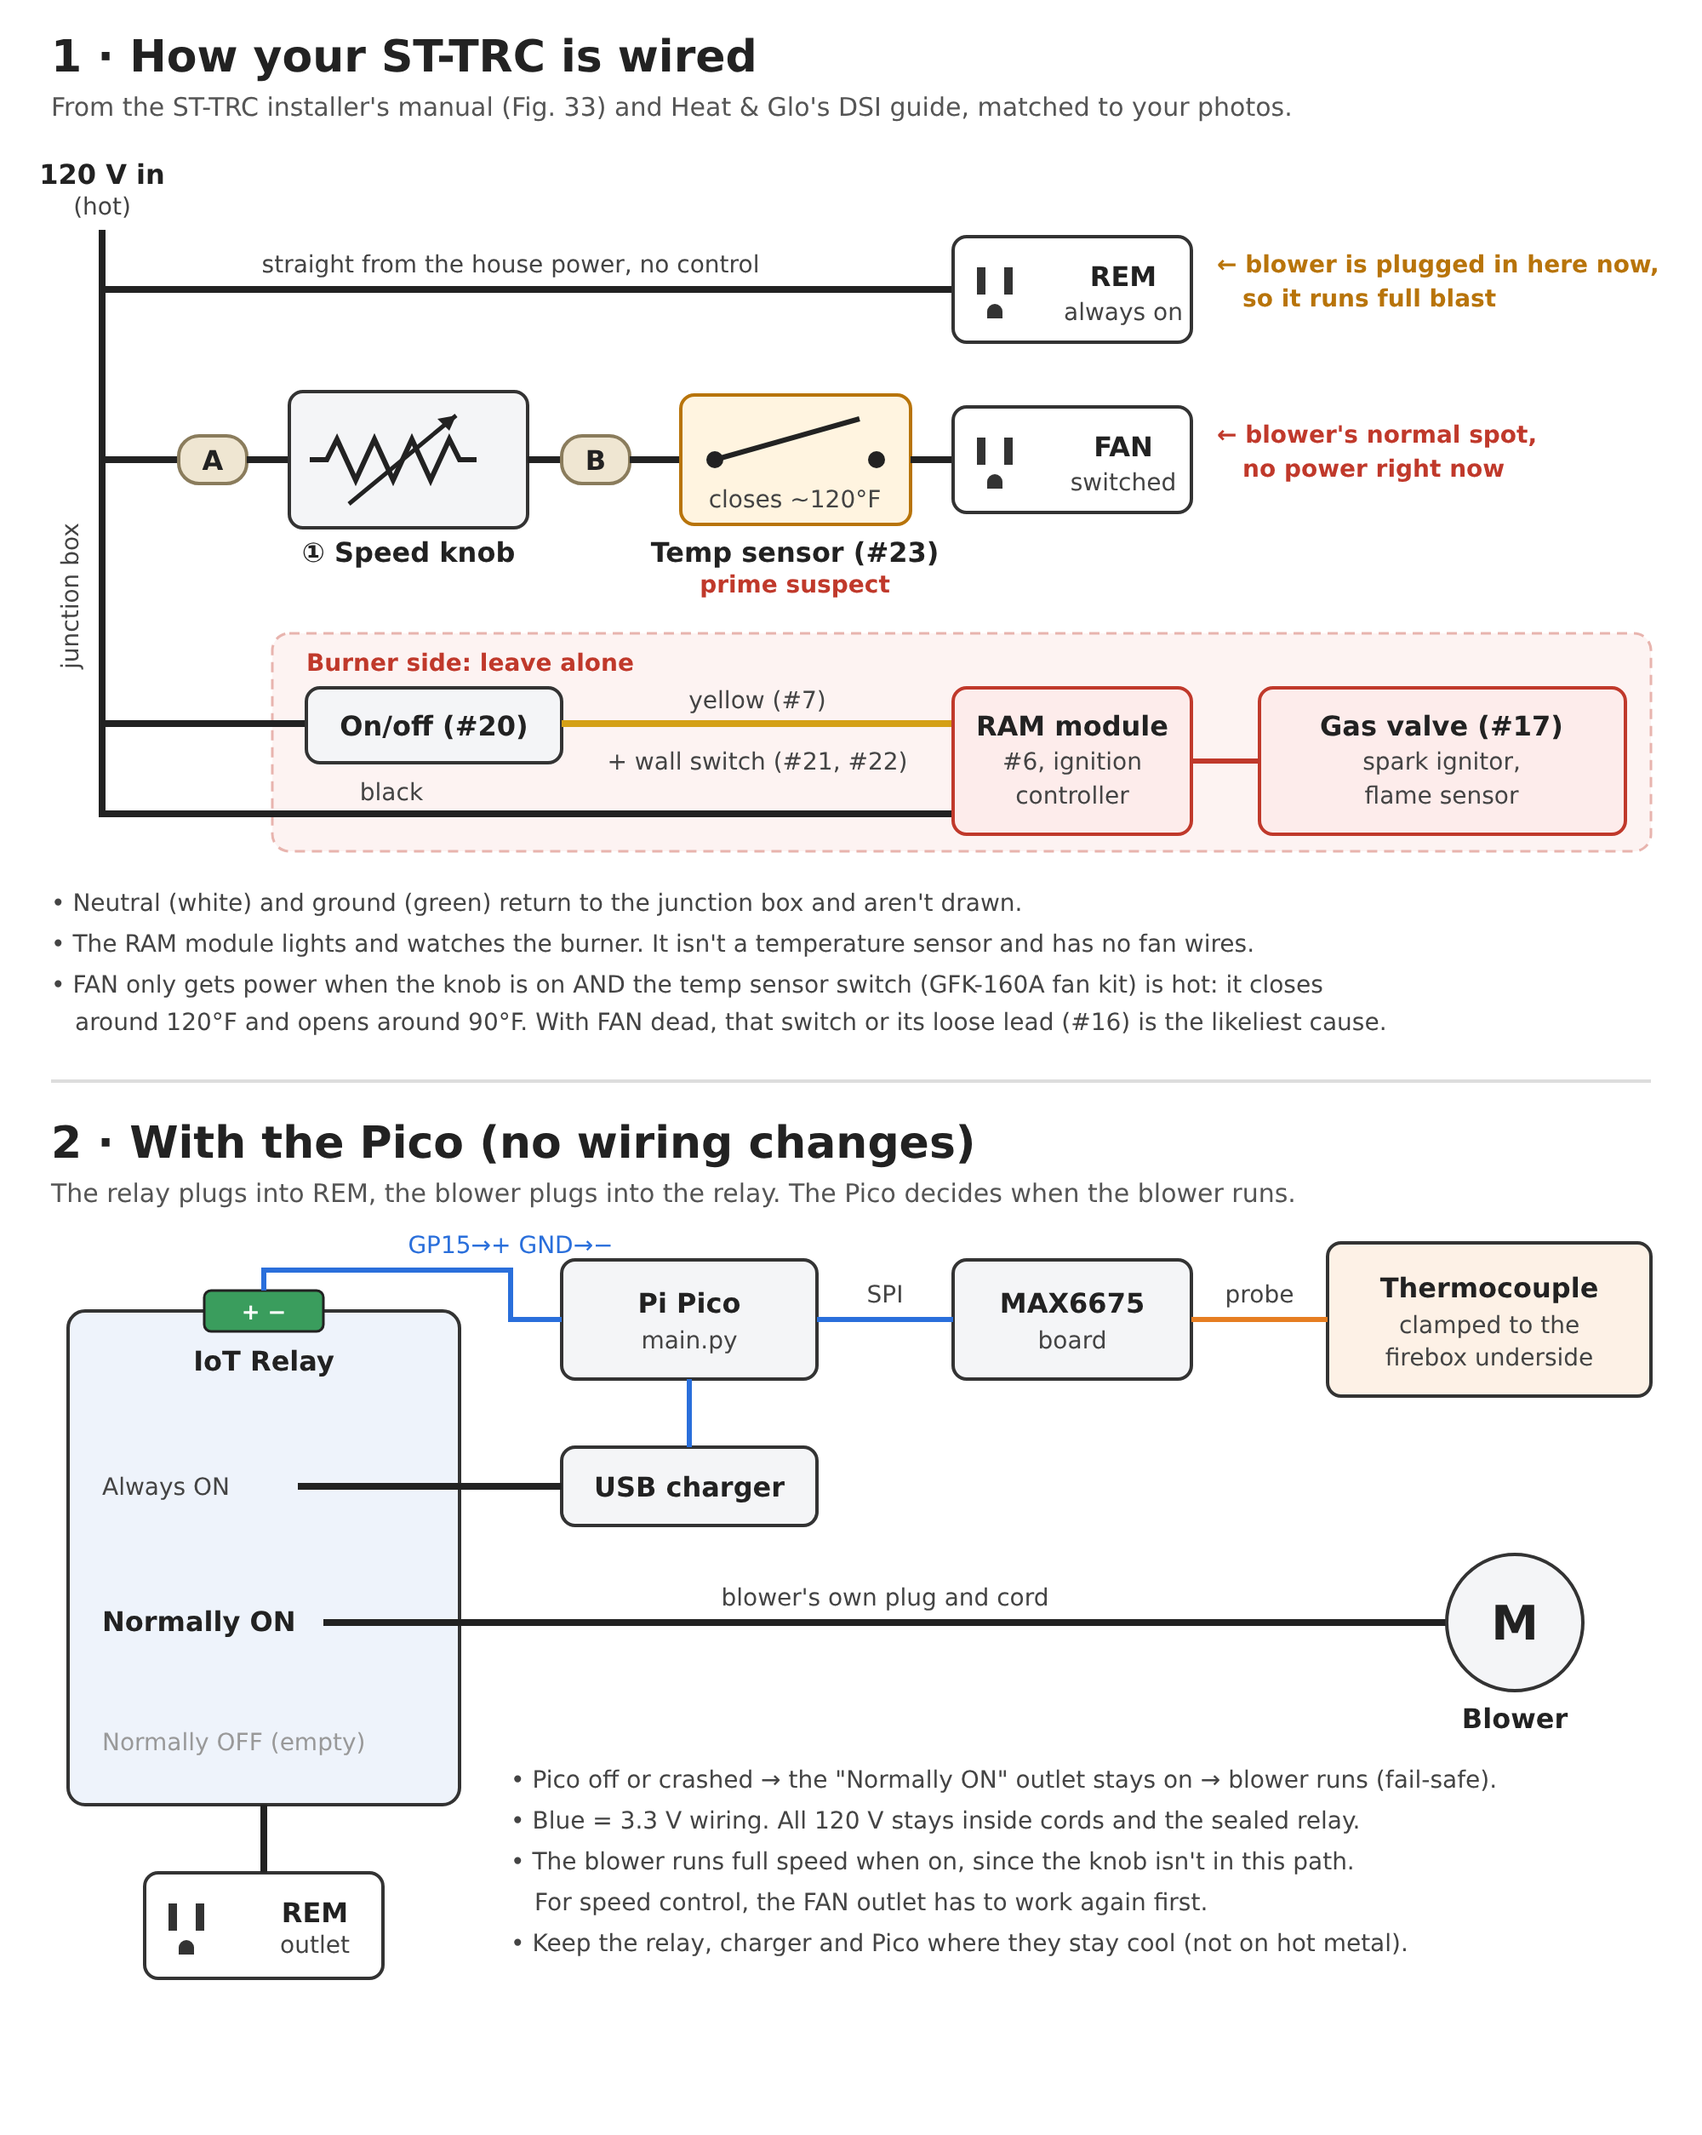
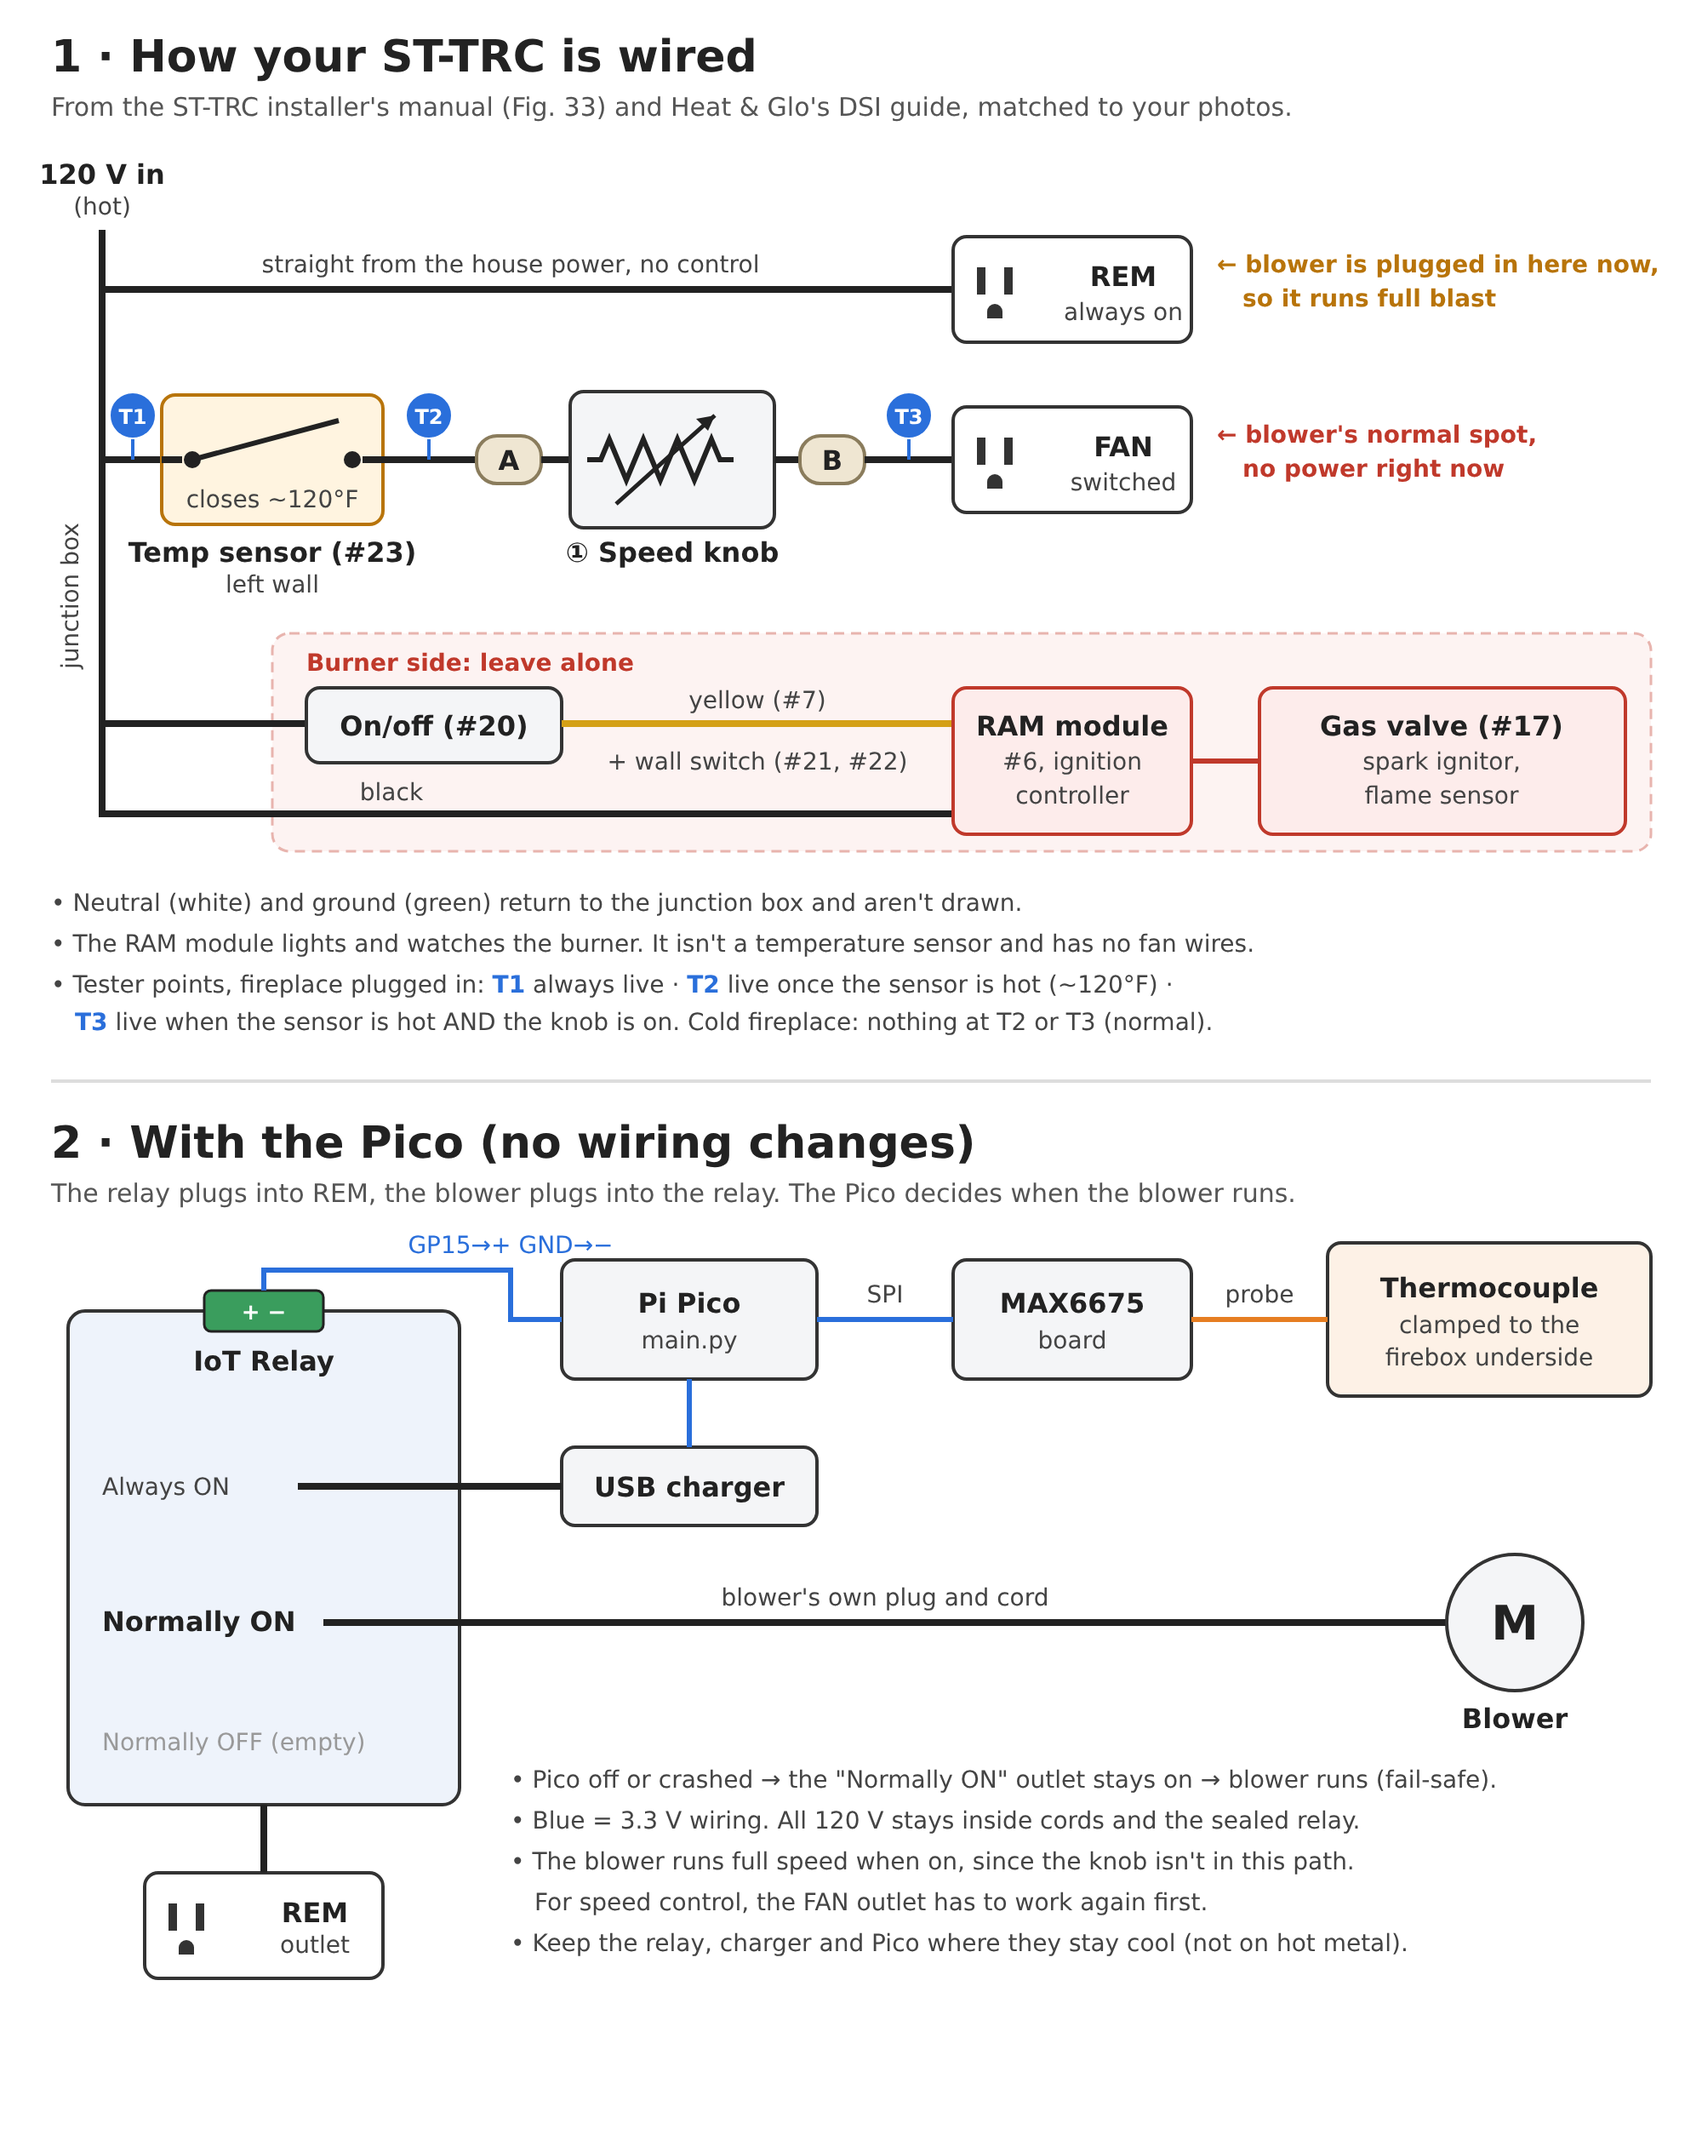
Redraw fan circuit in traced order with tester points
The sensor sits before the knob, so a cold fireplace shows no voltage on
any knob wire. Add T1-T3 test points and an end-to-end lamp and hair
dryer test that separates a dead sensor, a dead knob, and a sensor that
never gets hot enough.

Claude-Session: https://claude.ai/code/session_018uak9j8cmQfDt7bDYqRs5F

Changed region(s): [[0.062, 0.1555, 0.558, 0.2799], [0.031, 0.4354, 0.744, 0.4976]]

diff --git a/fireplace-fan/docs/schematic.html b/fireplace-fan/docs/schematic.html
@@ -49,28 +49,38 @@
   <text x="730" y="180" class="ok">so it runs full blast</text>
   <text x="300" y="160" text-anchor="middle" class="sm">straight from the house power, no control</text>
 
-  <!-- Rung 2: FAN via knob -->
-  <path d="M60 270 H105" class="hot"/>
-  <rect x="105" y="256" width="40" height="28" rx="12" class="splice"/>
-  <text x="125" y="276" text-anchor="middle" class="lbl">A</text>
-  <path d="M145 270 H170" class="hot"/>
-  <rect x="170" y="230" width="140" height="80" rx="8" class="box"/>
-  <path d="M182 270 l10 0 l6 -12 l11 24 l11 -24 l11 24 l11 -24 l11 24 l11 -24 l6 12 l10 0" stroke="#222" stroke-width="3" fill="none"/>
-  <path d="M205 296 L268 244" stroke="#222" stroke-width="2.5"/>
-  <path d="M268 244 l-11 2 l7 7 z" fill="#222"/>
-  <text x="240" y="330" text-anchor="middle" class="lbl">① Speed knob</text>
-  <path d="M310 270 H330" class="hot"/>
-  <rect x="330" y="256" width="40" height="28" rx="12" class="splice"/>
-  <text x="350" y="276" text-anchor="middle" class="lbl">B</text>
-  <path d="M370 270 H400" class="hot"/>
-  <rect x="400" y="232" width="135" height="76" rx="8" class="box" style="fill:#fff4e0;stroke:#b8740a"/>
-  <circle cx="420" cy="270" r="5" fill="#222"/>
-  <circle cx="515" cy="270" r="5" fill="#222"/>
-  <path d="M420 270 L505 246" stroke="#222" stroke-width="3"/>
-  <text x="467" y="298" text-anchor="middle" class="sm">closes ~120°F</text>
-  <text x="467" y="330" text-anchor="middle" class="lbl">Temp sensor (#23)</text>
-  <text x="467" y="348" text-anchor="middle" class="warn">prime suspect</text>
-  <path d="M535 270 H560" class="hot"/>
+  <!-- Rung 2: FAN via sensor then knob (order as traced) -->
+  <path d="M60 270 H95" class="hot"/>
+  <rect x="95" y="232" width="130" height="76" rx="8" class="box" style="fill:#fff4e0;stroke:#b8740a"/>
+  <path d="M95 270 H107 M213 270 H225" stroke="#222" stroke-width="4"/>
+  <circle cx="113" cy="270" r="5" fill="#222"/>
+  <circle cx="207" cy="270" r="5" fill="#222"/>
+  <path d="M113 270 L199 247" stroke="#222" stroke-width="3"/>
+  <text x="160" y="298" text-anchor="middle" class="sm">closes ~120°F</text>
+  <text x="160" y="330" text-anchor="middle" class="lbl">Temp sensor (#23)</text>
+  <text x="160" y="348" text-anchor="middle" class="sm">left wall</text>
+  <path d="M225 270 H280" class="hot"/>
+  <rect x="280" y="256" width="38" height="28" rx="12" class="splice"/>
+  <text x="299" y="276" text-anchor="middle" class="lbl">A</text>
+  <path d="M318 270 H335" class="hot"/>
+  <rect x="335" y="230" width="120" height="80" rx="8" class="box"/>
+  <path d="M345 270 l8 0 l5 -12 l10 24 l10 -24 l10 24 l10 -24 l10 24 l10 -24 l5 12 l8 0" stroke="#222" stroke-width="3" fill="none"/>
+  <path d="M362 296 L420 244" stroke="#222" stroke-width="2.5"/>
+  <path d="M420 244 l-11 2 l7 7 z" fill="#222"/>
+  <text x="395" y="330" text-anchor="middle" class="lbl">① Speed knob</text>
+  <path d="M455 270 H470" class="hot"/>
+  <rect x="470" y="256" width="38" height="28" rx="12" class="splice"/>
+  <text x="489" y="276" text-anchor="middle" class="lbl">B</text>
+  <path d="M508 270 H560" class="hot"/>
+  <circle cx="78" cy="244" r="14" fill="#2a6fdb" stroke="#fff" stroke-width="2"/>
+  <text x="78" y="249" text-anchor="middle" style="font-size:12px;font-weight:bold;fill:#fff">T1</text>
+  <path d="M78 258 V270" stroke="#2a6fdb" stroke-width="2"/>
+  <circle cx="252" cy="244" r="14" fill="#2a6fdb" stroke="#fff" stroke-width="2"/>
+  <text x="252" y="249" text-anchor="middle" style="font-size:12px;font-weight:bold;fill:#fff">T2</text>
+  <path d="M252 258 V270" stroke="#2a6fdb" stroke-width="2"/>
+  <circle cx="534" cy="244" r="14" fill="#2a6fdb" stroke="#fff" stroke-width="2"/>
+  <text x="534" y="249" text-anchor="middle" style="font-size:12px;font-weight:bold;fill:#fff">T3</text>
+  <path d="M534 258 V270" stroke="#2a6fdb" stroke-width="2"/>
   <use href="#outlet" x="560" y="239"/>
   <text x="660" y="268" text-anchor="middle" class="lbl">FAN</text>
   <text x="660" y="288" text-anchor="middle" class="sm">switched</text>
@@ -103,8 +113,8 @@
   <!-- notes -->
   <text x="30" y="535" class="sm">• Neutral (white) and ground (green) return to the junction box and aren't drawn.</text>
   <text x="30" y="559" class="sm">• The RAM module lights and watches the burner. It isn't a temperature sensor and has no fan wires.</text>
-  <text x="30" y="583" class="sm">• FAN only gets power when the knob is on AND the temp sensor switch (GFK-160A fan kit) is hot: it closes</text>
-  <text x="44" y="605" class="sm">around 120°F and opens around 90°F. With FAN dead, that switch or its loose lead (#16) is the likeliest cause.</text>
+  <text x="30" y="583" class="sm">• Tester points, fireplace plugged in: <tspan style="fill:#2a6fdb;font-weight:bold">T1</tspan> always live · <tspan style="fill:#2a6fdb;font-weight:bold">T2</tspan> live once the sensor is hot (~120°F) ·</text>
+  <text x="44" y="605" class="sm"><tspan style="fill:#2a6fdb;font-weight:bold">T3</tspan> live when the sensor is hot AND the knob is on. Cold fireplace: nothing at T2 or T3 (normal).</text>
 
   <line x1="30" y1="635" x2="970" y2="635" class="divider"/>
 

diff --git a/fireplace-fan/README.md b/fireplace-fan/README.md
@@ -161,17 +161,19 @@ the parts in the photos:
 
 ### Why the FAN outlet is dead: checks
 
-**Do these with the fireplace off, cooled down, and its power cord unplugged.**
+As traced on this unit, the power runs **junction box → temp sensor (#23) →
+speed knob → back to the junction box → FAN outlet**. The sensor comes first, so
+when the fireplace is cold **none of the knob's wires are live**. That's normal.
+The test points T1–T3 are marked on the schematic.
 
-1. **The sensor switch (#23, photo 6)** is the round metal dome on a small bracket on the left wall of the compartment, behind the speed knob. The bracket is held by one screw. Remove the screw and tilt the bracket out to see the back. It has two terminals, and usually a stamped code such as `F120-20F` that gives its temperatures. Photograph it, and check that a wire is attached to each terminal. Follow the second wire. It probably ends at #15 or #16.
-2. **Reconnect #16** if it clearly mates with the connector on the disc's other lead.
-3. **Test the sensor:** pull one lead off and set a multimeter to continuity across the disc's two terminals.
-   - Cold: **open (no beep)**. That's normal.
-   - After a minute of hair dryer heat: it **should beep**.
-   - If it never closes, replace it with a fan snap-disc switch that closes around 120°F and opens around 90°F, with the same size and mounting. Take the old one with you to match.
-4. **Speed knob:** set a multimeter to continuity (or ohms) across the knob's two wires (black and blue). Fully up should read close to 0 Ω or beep. Fully down/off should read open. If it reads open at every setting, the knob is dead (it's a standard fireplace blower speed control and easy to replace).
-5. **Ceramic splices #2 and #3:** unscrew each one and check the wires inside are tight and not burnt.
-6. **Check the rest of the circuit:** once you've confirmed which two wires are the sensor's, you can join them with a short insulated jumper *for this test only*. Then plug the fireplace back in, put a lamp in the FAN outlet and turn the knob up. The lamp should light. Unplug the fireplace and remove the jumper afterwards.
+1. **End-to-end test (no tools):** plug a lamp into **FAN** and turn the knob all the way up. Warm the sensor's bracket with a hair dryer for 1–2 minutes; you may hear a faint click.
+   - **Lamp comes on:** the sensor, knob and wiring all work. The real problem is that the sensor doesn't get to 120°F during a fire, which a very low flame would explain. Fix the flame, fit a lower-temperature disc, or let the Pico take over with a lower ON temperature.
+   - **Lamp stays off:** go on to step 2.
+2. **Non-contact voltage tester, fireplace plugged in, hair dryer still on the sensor:**
+   - **T1** (wire from the junction box to the sensor) should beep. If it doesn't, power isn't leaving the junction box for the fan circuit.
+   - **T2** (black wire from the sensor to the knob) should beep once the sensor is hot. If T1 beeps but T2 never does, **the sensor is dead**: replace it.
+   - **T3** (wire from the knob back to the junction box) should beep with the knob turned up. If T2 beeps but T3 doesn't, **the knob is dead** (or one of its ceramic splices #2/#3 is loose): replace it.
+3. **Replacing the sensor:** unplug the fireplace, remove the bracket's one screw, and read the code stamped on the back of the disc (for example `F120-20F`). Buy one with the same code and size, move the two wires across, and screw the bracket back.
 
 If FAN works again with the sensor reconnected or replaced, the fireplace's own
 automatic fan is back: the blower starts once the firebox warms up, and the knob
